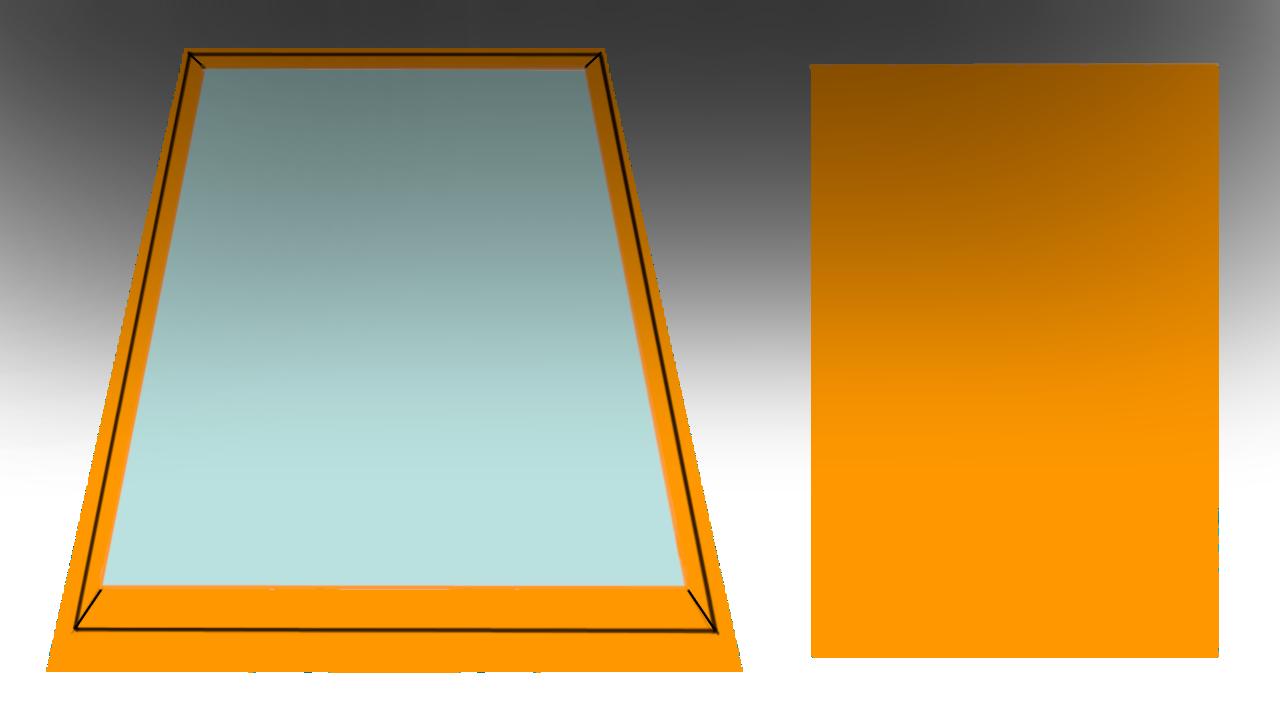
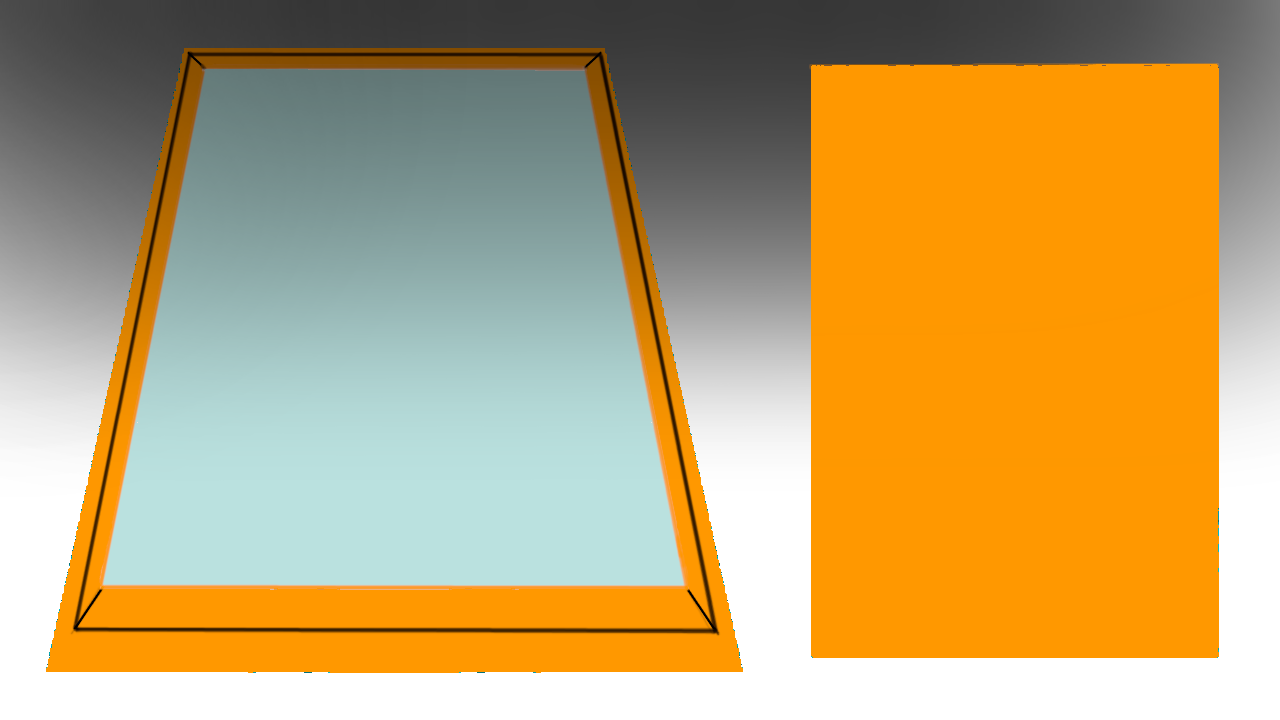
ball return and physics

Changed region(s): [[0.625, 0.0917, 0.9688, 0.5194]]

diff --git a/static/javascripts/game.js b/static/javascripts/game.js
@@ -6,6 +6,7 @@ class Pinball extends Phaser.Scene {
 		this.load.setBaseURL('assets/');
 
 		this.load.image('sky', 'sky.png');
+		this.load.image('board', 'board.png');
 		this.load.image('ball', 'silver_ball.png');
 		this.load.image('paddleRight', 'paddleRight.png');
 		this.load.image('paddleLeft', 'paddleLeft.png');
@@ -14,8 +15,8 @@ class Pinball extends Phaser.Scene {
 
 	}
 	create() {
-		const board = this.add.image(pos.center.x, pos.center.y, 'sky');
-		board.setScale(1.5)
+		this.add.image(pos.center.x, pos.center.y, 'sky').setScale(1.75)
+		this.add.image(pos.center.x, pos.center.y, 'board');
 		
 		this.createWalls()
 		
@@ -23,22 +24,33 @@ class Pinball extends Phaser.Scene {
 		this.matter.world.engine.velocityIterations = 8
 		this.matter.world.runner.isFixed = true 
 		// this.matter.world.runner.deltaMax = 2 
-		// this.matter.world.runner.correction = 100 
+		// this.matter.world.runner.correction = 1 
 		// this.matter.world.runner.deltaMin = 1 
-      			
-		this.matter.world.setGravity(0, 1, 0.001);
+		this.matter.world.setGravity(0, 1, 0.0015);
 		
 		this.paddles = newPaddles(this)
 		this.ball = newBall(this)
 	}
 	update () {
 		this.updatePaddles()
+
+		// ball y velocity clamp
+		if ( this.ball.body.velocity.y < -15 ) { this.ball.setVelocityY(-15) }
+		if ( this.ball.body.velocity.y > 15 ) { this.ball.setVelocityY(15) }
+
+		// ball return
+		if ( this.ball.body.position.y < 570) return
+		this.ball.setVelocityX(3)
+		this.input.keyboard.on('keydown', (event) => 
+			event.key == "ArrowUp" && this.ball.body.position.x > 600 ? 
+				this.ball.setVelocity(-3, -20) : null)
 	}
 	
 	createWalls () {
-		this.matter.add.rectangle(pos.center.x, h, w, 30, { isStatic: true })
-		this.matter.add.rectangle(0, h/2, 30, h, { isStatic: true })
-		this.matter.add.rectangle(w, h/2, 30, h, { isStatic: true })
+		this.matter.add.rectangle(400, h - 80, 700, 50, { isStatic: true, angle: Math.PI + Math.PI / 60 })
+		this.matter.add.rectangle(400, 40, 400, 50, { isStatic: true })
+		this.matter.add.rectangle(pos.board.x - 280, pos.board.y, 50, h, { isStatic: true, angle: Math.PI / 16 })
+		this.matter.add.rectangle(pos.board.x + 280, pos.board.y, 50, h, { isStatic: true, angle: -Math.PI / 16 })
 	}
 
 	updatePaddles(input=this.input.keyboard, paddles=this.paddles) {
@@ -52,24 +64,23 @@ class Pinball extends Phaser.Scene {
 		if (paddles.leftFired ) paddles.fire.left() 
 		if (paddles.rightFired ) paddles.fire.right()
 
-		if ( paddles.left.angle <= -30) paddles.leftFired ? 
+		if ( paddles.left.angle <= -10) paddles.leftFired ? 
 			paddles.left.setAngularVelocity(0) : // button held
 			paddles.left.setAngularVelocity(0.1) // button released
 		
-		if ( paddles.right.angle >= 30) paddles.rightFired ? 
+		if ( paddles.right.angle >= 10) paddles.rightFired ? 
 			paddles.right.setAngularVelocity(0) : // button held
 			paddles.right.setAngularVelocity(-0.1) // button released
 
-		if ( paddles.right.angle <= -10 ) paddles.right.angle = -10 // bottom limit
-		if ( paddles.left.angle >= 10 ) paddles.left.angle = 10 // bottom limit
+		if ( paddles.right.angle <= -18 ) paddles.right.angle = -18 // bottom limit
+		if ( paddles.left.angle >= 18 ) paddles.left.angle = 18 // bottom limit
 	}
 }
 
-// Phaser config
 const config = {
 	type: Phaser.AUTO,
-	width: 800,
-	height: 600,
+	width: 1280,
+	height: 720,
 	scene: Pinball,
 	input: {
 		keyboard: true
@@ -80,7 +91,7 @@ const config = {
 			timing: {
 				timeScale: 2 
 			},
-			debug: true
+			// debug: true
 		}
 	},
 	plugins: {
@@ -92,47 +103,42 @@ const config = {
 	}
 };
 
-
-
 const [w, h] = [config.width, config.height]
 pos = {
 	center: { x: w / 2, y: h / 2 },
-	launch: { x: w - 50, y: h - 50 },
-	paddleCenter: { x: w / 2, y: h - h / 5 }
+	launch: { x: w / 2, y:  h / 2},
+	paddleCenter: { x: 395, y: h / 2 + 100 },
+	board: { x: 395, y: h / 2}
 }
 
 function newBall(scene) {
 	const ball = scene.matter.add.image(
 		pos.launch.x, pos.launch.y, 'ball'
 	);
-	ball.setScale(0.35);
-	ball.setCircle(18);
+	ball.setScale(0.4);
+	ball.setCircle(25);
 	ball.setBounce(0.4);
-	ball.setVelocity(-6, -20);
-	// ball.setMass(0.05)
-	return this.ball
+	ball.setVelocity(-7, -20);
+	return ball
 }
 
 function newPaddles(scene, center = pos.paddleCenter) {
 	const spritePhysics = scene.cache.json.get("sprites");
-	const leftCollision = spritePhysics["paddleLeft"]
-	const rightCollision = spritePhysics["paddleRight"]
-	
 	function fire(paddle, direction) { paddle.setAngularVelocity(0.1 * direction) }
 
 	const paddles = {
-		left: scene.matter.add.sprite(0, 0, 'paddleLeft', null, { shape: leftCollision }),
-		right: scene.matter.add.sprite(0, 0, 'paddleRight', null, { shape: rightCollision }),
+		left: scene.matter.add.sprite(0, 0, 'paddleLeft', null, { shape: spritePhysics["paddleLeft"]
+ }),
+		right: scene.matter.add.sprite(0, 0, 'paddleRight', null, { shape: spritePhysics["paddleRight"] }),
 		apply: (func) => { func(paddles.left); func(paddles.right) },
 		fire: {left: () => fire(paddles.left, -1), right: () => fire(paddles.right, 1)},
 		leftFired: false,
 		rightFired: false
 	}
 
-	paddles.apply((paddle) => paddle.setScale(0.5))
-	// paddles.apply((paddle) => paddle.setMass(1))
+	paddles.apply((paddle) => paddle.setScale(0.55))
 
-	const options = { spread: 330, matter: {} }
+	const options = { spread: 370, matter: {} }
 	const leftOptions = { pointA: { x: center.x - options.spread/2, y: center.y}, ...options.matter}
 	const rightOptions = {  pointA: { x: center.x + options.spread/2, y: center.y}, ...options.matter}
 	scene.matter.add.worldConstraint(paddles.left, 0, 1.0, leftOptions)
